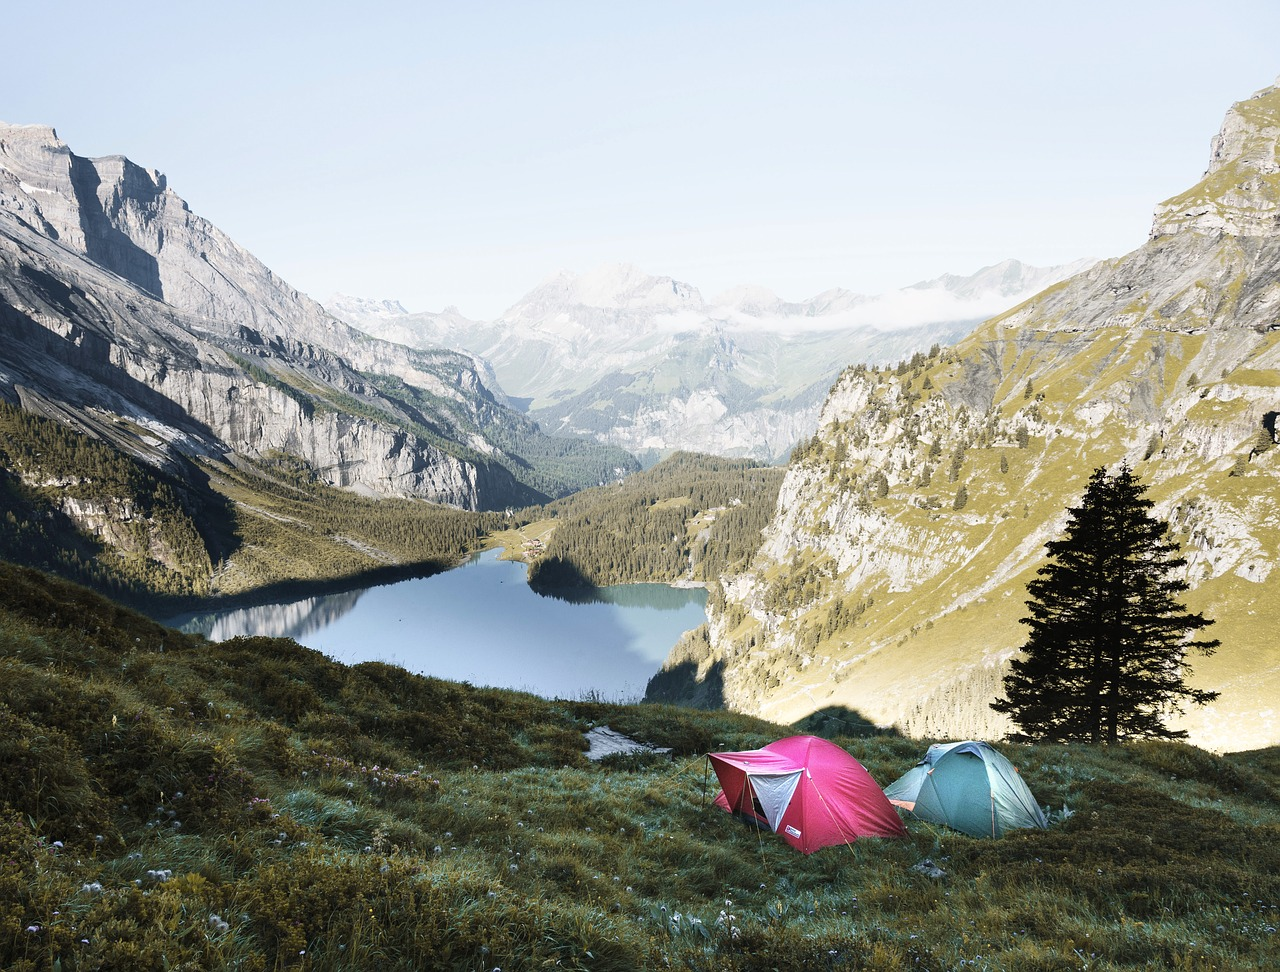
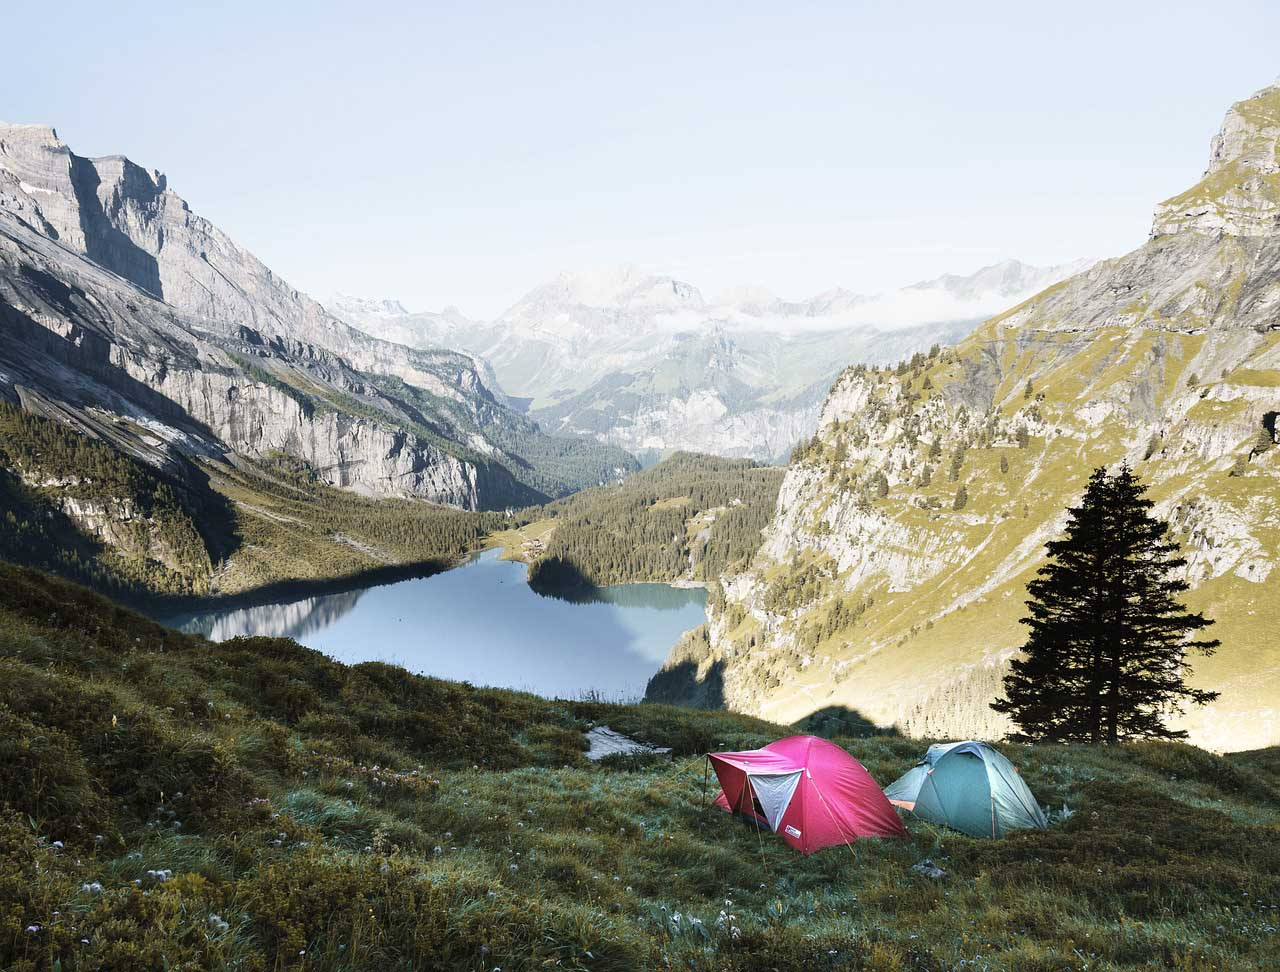
Compress img

diff --git a/contact.html b/contact.html
@@ -10,12 +10,12 @@
 <body>
     <nav class="navbar">
         <span class="navbar-toggle" id="js-navbar-toggle">&#9776;</span>
-        <a class="title" href="#">Camplus</a>
+        <a class="title" href="/">Camplus</a>
         <ul class="nav-items" id="js-menu">
-            <li><a href="#">Home</a></li>
-            <li><a href="#">Pricing</a></li>
+            <li><a href="/">Home</a></li>
             <li><a href="#">Contact</a></li>
-            <li><a href="#">Sign In</a></li>
+            <li><a href="about">About</a></li>
+            <li><a href="signin">Sign In</a></li>
         </ul>
     </nav>
     <section class="contact-hero">
@@ -38,9 +38,9 @@
     </section>
     <footer class="footer">
         <ul class="footer-items">
-            <li><a href="">Home</a></li>
-            <li><a href="">Contact</a></li>
-            <li><a href="">About</a></li>
+            <li><a href="/">Home</a></li>
+            <li><a href="#">Contact</a></li>
+            <li><a href="about">About</a></li>
             <li><a href="">Term of use</a></li>
             <li><a href="">Privacy policy</a></li>
         </ul>

diff --git a/signin.html b/signin.html
@@ -10,11 +10,11 @@
 <body>
     <nav class="navbar">
         <span class="navbar-toggle" id="js-navbar-toggle">&#9776;</span>
-        <a class="title" href="#">Camplus</a>
+        <a class="title" href="/">Camplus</a>
         <ul class="nav-items" id="js-menu">
-            <li><a href="#">Home</a></li>
-            <li><a href="#">Pricing</a></li>
-            <li><a href="#">Contact</a></li>
+            <li><a href="/">Home</a></li>
+            <li><a href="contact">Contact</a></li>
+            <li><a href="about">About</a></li>
             <li><a href="#">Sign In</a></li>
         </ul>
     </nav>
@@ -56,9 +56,9 @@
     </section>
     <footer class="footer">
         <ul class="footer-items">
-            <li><a href="">Home</a></li>
-            <li><a href="">Contact</a></li>
-            <li><a href="">About</a></li>
+            <li><a href="/">Home</a></li>
+            <li><a href="contact">Contact</a></li>
+            <li><a href="about">About</a></li>
             <li><a href="">Term of use</a></li>
             <li><a href="">Privacy policy</a></li>
         </ul>

diff --git a/index.html b/index.html
@@ -10,7 +10,7 @@
 <body>
     <nav class="navbar">
         <span class="navbar-toggle" id="js-navbar-toggle">&#9776;</span>
-        <a class="title" href="#">Camplus</a>
+        <a class="title" href="/">Camplus</a>
         <ul class="nav-items" id="js-menu">
             <li><a href="/">Home</a></li>
             <li><a href="contact">Contact</a></li>
@@ -81,9 +81,9 @@
     </section>
     <footer class="footer">
         <ul class="footer-items">
-            <li><a href="">Home</a></li>
-            <li><a href="">Contact</a></li>
-            <li><a href="">About</a></li>
+            <li><a href="#">Home</a></li>
+            <li><a href="contact">Contact</a></li>
+            <li><a href="about">About</a></li>
             <li><a href="">Term of use</a></li>
             <li><a href="">Privacy policy</a></li>
         </ul>
